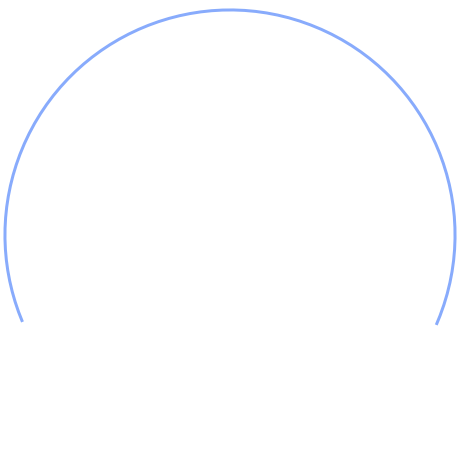
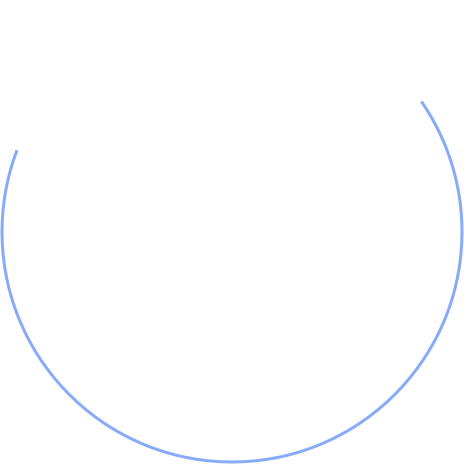
fixed blue circle

diff --git a/public/css/style.css b/public/css/style.css
@@ -163,23 +163,23 @@ a:hover{
 
 .three{
   background-image:url("../img/3.png");
-  height: 460px;
-  width: 460px;
+  height: 464px;
+  width: 464px;
   position: absolute;
   top:50%;
   left:50%;
-  margin: -230px 0px 0px -230px;
+  margin: -232px 0px 0px -232px;
   z-index: 2;
   animation-name: rotateEndlesslyInvert;
-  animation-duration: 7s;
+  animation-duration: 15s;
   animation-iteration-count: infinite;
   animation-timing-function: linear;
   -webkit-animation-name: rotateEndlesslyInvert;
-  -webkit-animation-duration: 7s;
+  -webkit-animation-duration: 15s;
   -webkit-animation-iteration-count: infinite;
   -webkit-animation-timing-function: linear;
   -moz-animation-name: rotateEndlesslyInvert;
-  -moz-animation-duration: 7s;
+  -moz-animation-duration: 15s;
   -moz-animation-iteration-count: infinite;
   -moz-animation-timing-function: linear;
 }

diff --git a/app.js b/app.js
@@ -9,7 +9,7 @@ var methodOverride = require('method-override');
 
 // config files
 var db = require('./config/db');//for dev purposes
-mongoose.connect(process.env.MONGO);
+mongoose.connect(process.env.MONG);
 
 var port = process.env.PORT || 3000; // set our port
 // mongoose.connect(db.url); // connect to our mongoDB database (uncomment after you enter in your own credentials in config/db.js)
